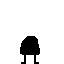
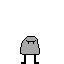
- Added ability to change crosshairs during moves - Changes enemy appearence

Changed region(s): [[0.3125, 0.5625, 0.625, 0.8438]]

diff --git a/Demo/Assets/AbilityButtonHandler.cs b/Demo/Assets/AbilityButtonHandler.cs
@@ -22,6 +22,9 @@ public class AbilityButtonHandler : MonoBehaviour
     
     public AbilityButtonScript[] AbilityButtonList;
     
+    public Texture2D TargetCrosshairEnemy;
+    public Texture2D TargetCrosshairPlayer;
+    
     
     public void Start()
     {
@@ -145,6 +148,20 @@ public class AbilityButtonHandler : MonoBehaviour
     //Should likely move this to each respective button script
     public void Update()
     {
+        //Change cursor
+        if (currentAbility == null)
+        {
+            Cursor.SetCursor(null, Vector2.zero, CursorMode.Auto);  
+        }
+        else if (currentAbility.getTargetingType() == TargetingTypeEnum.EnemyTarget)
+        {
+            Cursor.SetCursor(TargetCrosshairEnemy, Vector2.zero, CursorMode.Auto);
+        }
+        else if (currentAbility.getTargetingType() == TargetingTypeEnum.PlayerTarget)
+        {
+            Cursor.SetCursor(TargetCrosshairPlayer, Vector2.zero, CursorMode.Auto);
+        }
+        
         //Makes character selector button grey or not
         foreach (SelectCharacterButtonScript SC in SelectCharacterButtonList)
         {

diff --git a/Demo/Assets/UI/EnemyMoveIndicatorScript.cs b/Demo/Assets/UI/EnemyMoveIndicatorScript.cs
@@ -61,12 +61,12 @@ public class EnemyMoveIndicatorScript : MonoBehaviour, IPointerClickHandler, IPo
         {
             if ((C.GetType()).IsSubclassOf(typeof(PlayableCharacter)))
             {
-                C.gameObject.GetComponent<SpriteRenderer>().color = Color.red;
+                C.gameObject.GetComponent<SpriteRenderer>().material.color = Color.red;
             }
             
             if ((C.GetType()).IsSubclassOf(typeof(EnemyCharacter)))
             {
-                C.gameObject.GetComponent<SpriteRenderer>().color = Color.blue;
+                C.gameObject.GetComponent<SpriteRenderer>().material.color = Color.blue;
             }
             
         }
@@ -76,7 +76,7 @@ public class EnemyMoveIndicatorScript : MonoBehaviour, IPointerClickHandler, IPo
 	{
         foreach (Character C in EM.getTargetArray())
         {
-            C.gameObject.GetComponent<SpriteRenderer>().color = Color.white;
+            C.gameObject.GetComponent<SpriteRenderer>().material.color = Color.white;
         }
 	}
     
